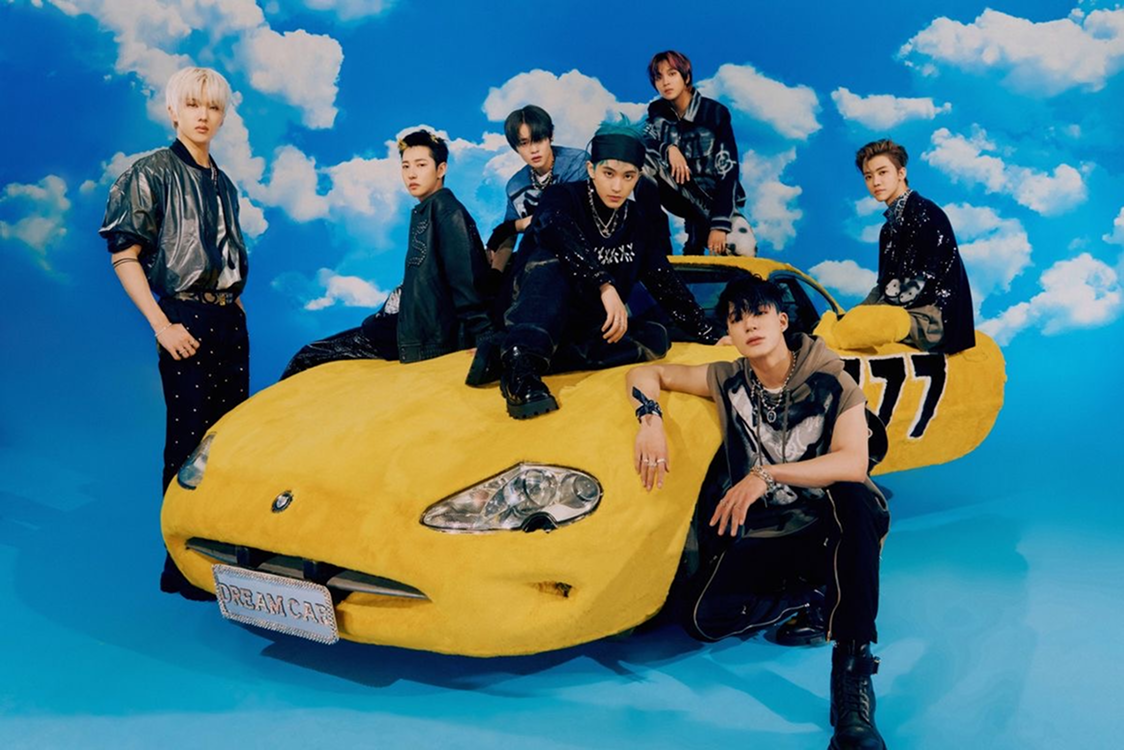
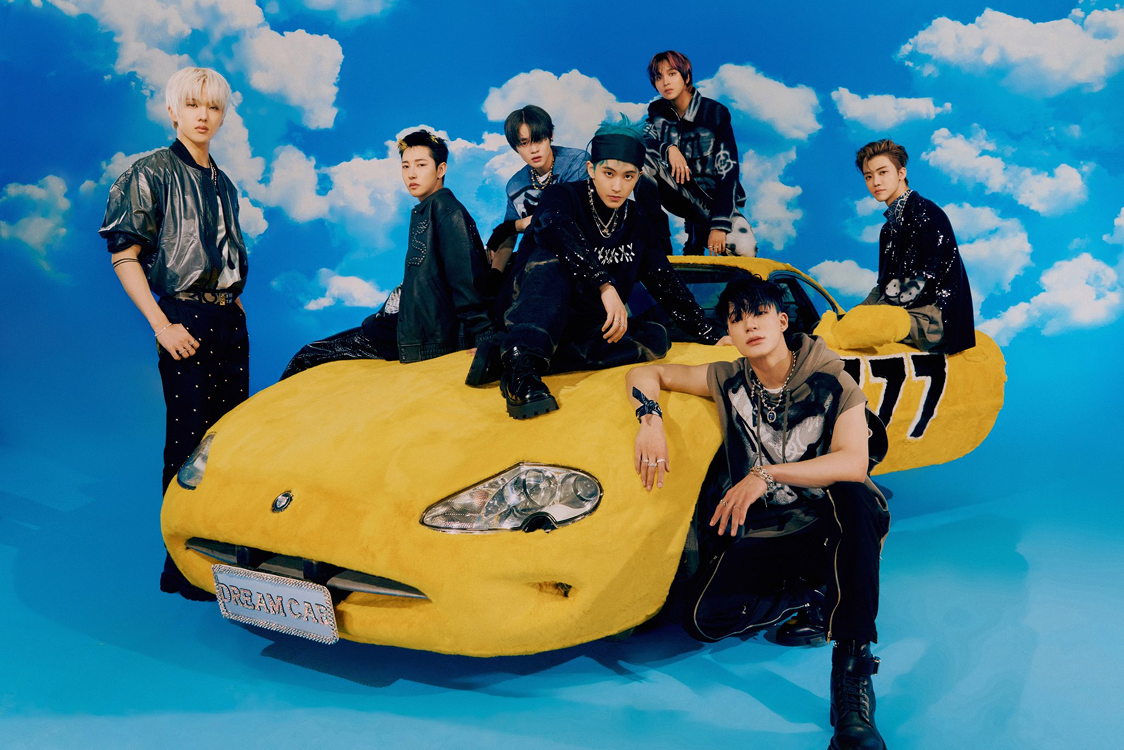
dark mode hero positioning

diff --git a/src/components/DMHero.jsx b/src/components/DMHero.jsx
@@ -1,15 +1,95 @@
 import React from "react";
 import dm_Hero from "../assets/images/darkMode/dm_hero.png";
+import dm_jisung from "../assets/images/darkMode/dm_jisungHero.png";
+import dm_chenle from "../assets/images/darkMode/dm_chenleHero.png";
+import dm_jaemin from "../assets/images/darkMode/dm_jaeminHero.png";
+import dm_haechan from "../assets/images/darkMode/dm_haechanHero.png";
+import dm_jeno from "../assets/images/darkMode/dm_jenoHero.png";
+import dm_renjun from "../assets/images/darkMode/dm_renjunHero.png";
+import dm_mark from "../assets/images/darkMode/dm_markHero.png";
 
 const DMHero = () => {
   return (
-    <div className="flex justify-center">
-      <img
-        src={dm_Hero}
-        alt="group"
-        className="h-[320px] sm:h-[400px] md:h-[475px] lg:h-[550px] xl:h-[750px]"
-      />
-    </div>
+    <>
+      <div className="flex justify-center">
+        <img
+          src={dm_Hero}
+          alt="group"
+          className="sm:absolute z-0 h-[320px] sm:h-[400px] md:h-[475px] lg:h-[550px] xl:h-[750px]"
+        />
+        <img
+          src={dm_jisung}
+          alt="jisung"
+          className="z-1 relative hover:cursor-pointer
+              hidden
+              sm:block sm:h-[260px] sm:left-[105px] sm:top-[5px] sm:hover:scale-[1.1]
+              md:h-[300px] md:left-[178px] md:top-[20px]
+              lg:h-[355px] lg:left-[215px] lg:top-[21px]
+              xl:h-[490px] xl:left-[283px] xl:top-[30px]  xl:hover:scale-[1.05]"
+        />
+        <img
+          src={dm_chenle}
+          alt="chenle"
+          className="z-2 relative hover:cursor-pointer
+              hidden
+              sm:block sm:h-[100px] sm:left-[475px] sm:hover:scale-[1.1]
+              md:h-[135px] md:left-[295px] md:top-[60px]
+              lg:h-[150px] lg:left-[347px] lg:top-[70px]
+              xl:h-[205px] xl:left-[465px] xl:top-[95px]  xl:hover:scale-[1.05]"
+        />
+        <img
+          src={dm_jaemin}
+          alt="jaemin"
+          className="z-2 relative hover:cursor-pointer
+              hidden
+              sm:block sm:h-[135px] sm:left-[354px] sm:top-[63px] sm:hover:scale-[1.1]
+              md:h-[160px] md:left-[440px] md:top-[75px]
+              lg:h-[180px] lg:left-[524px] lg:top-[90px]
+              xl:h-[250px] xl:left-[702px] xl:top-[120px]  xl:hover:scale-[1.05]"
+        />
+        <img
+          src={dm_jeno}
+          alt="jaemin"
+          className="z-1 relative hover:cursor-pointer
+              hidden
+              sm:block sm:h-[200px] sm:left-[35px] sm:top-[100px] sm:hover:scale-[1.1]
+              md:h-[320px] md:left-[192px] md:top-[157px]
+              lg:h-[380px] lg:left-[237px] lg:top-[180px]
+              xl:h-[510px] xl:left-[311px] xl:top-[248px]  xl:hover:scale-[1.05]"
+        />
+        <img
+          src={dm_haechan}
+          alt="haechan"
+          className="z-1 relative hover:cursor-pointer
+              hidden
+              sm:block sm:h-[100px] sm:left-[-204px] sm:hover:scale-[1.1]
+              md:h-[155px] md:left-[3px] md:top-[25px]
+              lg:h-[185px] lg:left-[9px] lg:top-[25px]
+              xl:h-[250px] xl:left-[7px] xl:top-[35px]  xl:hover:scale-[1.05]"
+        />
+        <img
+          src={dm_mark}
+          alt="mark"
+          className="z-1 relative hover:cursor-pointer
+              hidden
+              sm:block sm:h-[200px] sm:left-[-471px] sm:hover:scale-[1.1]
+              md:h-[225px] md:left-[-197px] md:top-[50px]
+              lg:h-[270px] lg:left-[-228px] lg:top-[50px]
+              xl:h-[350px] xl:left-[-310px] xl:top-[85px]  xl:hover:scale-[1.05]"
+        />
+        <img
+          src={dm_renjun}
+          alt="renjun"
+          className="z-2 relative hover:cursor-pointer
+              hidden
+              sm:block sm:h-[130px] sm:top-[115px] sm:left-[-610px] sm:hover:scale-[1.1]
+              md:h-[168px] md:top-[78px] md:left-[-503px]
+              lg:h-[200px] lg:top-[87px] lg:left-[-587px]
+              xl:h-[275px] xl:top-[120px] xl:left-[-795px]  xl:hover:scale-[1.05]"
+        />
+      </div>
+      <div className="sm:pb-[15em] md:pb-[15em] lg:pb-[11em] xl:pb-[18em]"></div>
+    </>
   );
 };
 
